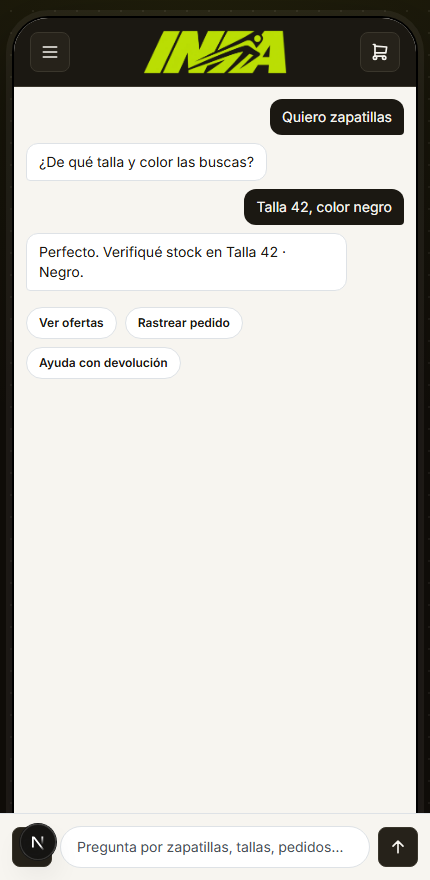
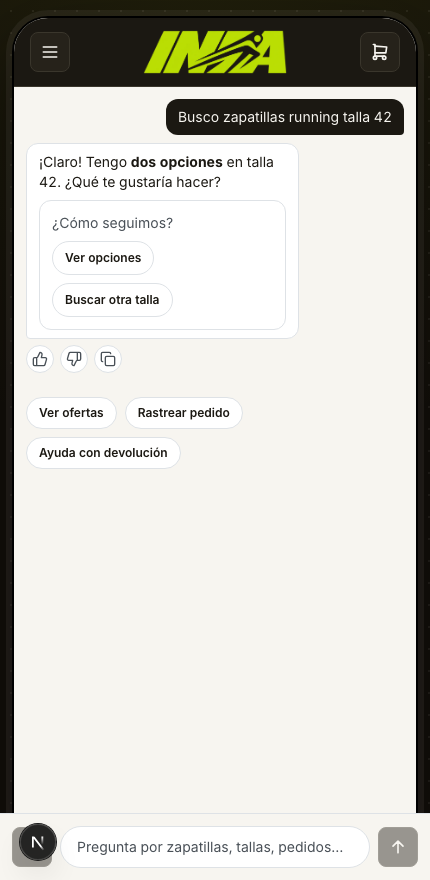
feat(h3-10): disable mock chat shortcuts and drop mensajePendiente

diff --git a/src/adapters/inbound/pages/OrderHistoryPage.tsx b/src/adapters/inbound/pages/OrderHistoryPage.tsx
@@ -8,7 +8,6 @@ import { ListaPedidos } from "../components/blocks/ListaPedidos";
 import { EstadoPedido } from "../components/blocks/EstadoPedido";
 import { ListaReclamos } from "../components/blocks/ListaReclamos";
 import { ListaDevoluciones } from "../components/blocks/ListaDevoluciones";
-import { useChatStore } from "@/application/state/chatStore";
 
 type Tab = "proceso" | "entregados" | "reembolso" | "reclamos";
 
@@ -16,13 +15,6 @@ type Tab = "proceso" | "entregados" | "reembolso" | "reclamos";
 export function OrderHistoryPage({ initialTab = "proceso" }: { initialTab?: Tab }) {
   const [tab, setTab] = useState<Tab>(initialTab);
   const router = useRouter();
-  const setMensajePendiente = useChatStore((s) => s.setMensajePendiente);
-
-  function preguntar(user: string, bot: string) {
-    setMensajePendiente({ user, bot });
-    router.push("/chat/consulta");
-  }
-
   return (
     <div className="p-4 flex flex-col gap-3">
       <div className="grid grid-cols-4 gap-1 bg-white border border-border-default rounded-md p-1">
@@ -49,9 +41,8 @@ export function OrderHistoryPage({ initialTab = "proceso" }: { initialTab?: Tab 
           <div className="grid grid-cols-2 gap-2 mt-2">
             <button onClick={() => router.push("/seguimiento")}
               className="wf-btn py-2.5 text-[11px] font-bold bg-action-primary text-surface-ink inline-flex items-center justify-center gap-1"><TruckIcon size={16} />VER SEGUIMIENTO</button>
-            <button
-              onClick={() => preguntar("Tengo una consulta sobre mi pedido #A-1042", "¡Claro! Tu pedido #A-1042 está EN CAMINO y llega el 18 sep a Av. Siempre Viva 742, Lima. ¿Quieres el detalle del seguimiento o ayuda con algo más?")}
-              className="wf-btn py-2.5 text-[11px] font-bold bg-white border border-border-default text-text-primary">PREGUNTAR EN EL CHAT</button>
+            <button disabled title="Próximamente" aria-label="Preguntar en el chat (próximamente)"
+              className="wf-btn py-2.5 text-[11px] font-bold bg-white border border-border-default text-text-primary disabled:opacity-45 disabled:cursor-not-allowed">PREGUNTAR EN EL CHAT</button>
           </div>
         </div>
       )}
@@ -67,9 +58,8 @@ export function OrderHistoryPage({ initialTab = "proceso" }: { initialTab?: Tab 
             <button onClick={() => router.push("/reclamo")} className="wf-btn py-2.5 text-[11px] font-bold bg-white border border-border-default inline-flex items-center justify-center gap-1"><FileAlertIcon size={16} />RECLAMAR</button>
             <button onClick={() => router.push("/devolucion")} className="wf-btn py-2.5 text-[11px] font-bold bg-white border border-border-default inline-flex items-center justify-center gap-1"><RefreshIcon size={16} />DEVOLVER</button>
           </div>
-          <button
-            onClick={() => preguntar("Tengo una consulta sobre mi pedido entregado #A-0987", "Tu pedido #A-0987 fue ENTREGADO el 2 sep en Calle Los Olivos 120, Lima. ¿Necesitas reportar un problema o solicitar un cambio?")}
-            className="wf-btn py-2.5 text-[11px] font-bold mt-2 w-full bg-surface-ink text-text-inverse">PREGUNTAR EN EL CHAT</button>
+          <button disabled title="Próximamente" aria-label="Preguntar en el chat (próximamente)"
+              className="wf-btn py-2.5 text-[11px] font-bold mt-2 w-full bg-surface-ink text-text-inverse disabled:opacity-45 disabled:cursor-not-allowed">PREGUNTAR EN EL CHAT</button>
         </div>
       )}
 
@@ -79,9 +69,8 @@ export function OrderHistoryPage({ initialTab = "proceso" }: { initialTab?: Tab 
             { codigo: "#R-0312", estado: "EN REVISIÓN", motivo: "Talla incorrecta", fecha: "10 sep 2026" },
             { codigo: "DEV-2026-00045", estado: "APROBADO", motivo: "Cambio 41 → 42", fecha: "8 sep 2026" },
           ]} />
-          <button
-            onClick={() => preguntar("Tengo una consulta sobre mi solicitud DEV-2026-0042", "Tu solicitud DEV-2026-0042 por talla incorrecta está En revisión. Te avisaremos por correo al aprobarse. ¿Te ayudo en algo más?")}
-            className="wf-btn py-2.5 text-[11px] font-bold w-full bg-surface-ink text-text-inverse">PREGUNTAR EN EL CHAT</button>
+          <button disabled title="Próximamente" aria-label="Preguntar en el chat (próximamente)"
+              className="wf-btn py-2.5 text-[11px] font-bold w-full bg-surface-ink text-text-inverse disabled:opacity-45 disabled:cursor-not-allowed">PREGUNTAR EN EL CHAT</button>
         </div>
       )}
 
@@ -90,9 +79,8 @@ export function OrderHistoryPage({ initialTab = "proceso" }: { initialTab?: Tab 
           <ListaReclamos items={[
             { codigo: "REC-2026-0118", estado: "EN PROCESO", motivo: "Producto defectuoso", plazo: "15 días hábiles" },
           ]} />
-          <button
-            onClick={() => preguntar("Tengo una consulta sobre mi reclamo REC-2026-0118", "Tu reclamo REC-2026-0118 sigue En revisión y el plazo es de 15 días hábiles. ¿Quieres agregar más información?")}
-            className="wf-btn py-2.5 text-[11px] font-bold w-full bg-surface-ink text-text-inverse">PREGUNTAR EN EL CHAT</button>
+          <button disabled title="Próximamente" aria-label="Preguntar en el chat (próximamente)"
+              className="wf-btn py-2.5 text-[11px] font-bold w-full bg-surface-ink text-text-inverse disabled:opacity-45 disabled:cursor-not-allowed">PREGUNTAR EN EL CHAT</button>
         </div>
       )}
     </div>

diff --git a/src/application/state/chatStore.ts b/src/application/state/chatStore.ts
@@ -13,8 +13,6 @@ type ChatState = {
   accionPendiente: string | null;
   /** Abre el modal de login/registro global (AppShell). */
   authOpen: boolean;
-  /** Par user/bot que otra página deja sembrado para el chat (confirm al agregar, preguntar en el chat). */
-  mensajePendiente: { user?: string; bot: string } | null;
   /** Resumen del último pedido confirmado (pantalla /exito). */
   ultimoPedido: UltimoPedido;
   /**
@@ -27,7 +25,6 @@ type ChatState = {
   setCarrito: (c: CarritoUI) => void;
   setAccionPendiente: (a: string | null) => void;
   setAuthOpen: (v: boolean) => void;
-  setMensajePendiente: (m: { user?: string; bot: string } | null) => void;
   setUltimoPedido: (p: UltimoPedido) => void;
   setPrimerMensaje: (m: string | null) => void;
   logout: () => void;
@@ -54,7 +51,6 @@ export const useChatStore = create<ChatState>()(
       carrito: carritoVacio,
       accionPendiente: null,
       authOpen: false,
-      mensajePendiente: null,
       ultimoPedido: null,
       primerMensaje: null,
       setToken: (accessToken) => set({ accessToken }),
@@ -62,7 +58,6 @@ export const useChatStore = create<ChatState>()(
       setCarrito: (carrito) => set({ carrito }),
       setAccionPendiente: (accionPendiente) => set({ accionPendiente }),
       setAuthOpen: (authOpen) => set({ authOpen }),
-      setMensajePendiente: (mensajePendiente) => set({ mensajePendiente }),
       setUltimoPedido: (ultimoPedido) => set({ ultimoPedido }),
       setPrimerMensaje: (primerMensaje) => set({ primerMensaje }),
       logout: () =>
@@ -71,17 +66,17 @@ export const useChatStore = create<ChatState>()(
           cliente: null,
           carrito: carritoVacio,
           accionPendiente: null,
-          mensajePendiente: null,
         }),
     }),
     {
       name: "g3-chat-storage", // LocalStorage, token 15 min (refresh en cookie httpOnly backend)
-      version: 1,
+      version: 2,
       // Los mensajes del chat viven en el backend (historial) y en el estado local del turno.
       migrate: (persistido) => {
         const resto = { ...(persistido as Record<string, unknown>) };
         delete resto.mensajes;
         delete resto.escribiendo;
+        delete resto.mensajePendiente;
         return resto as unknown as ChatState;
       },
       partialize: (s) => ({
@@ -91,7 +86,6 @@ export const useChatStore = create<ChatState>()(
         carrito: s.carrito,
         accionPendiente: s.accionPendiente,
         authOpen: s.authOpen,
-        mensajePendiente: s.mensajePendiente,
         ultimoPedido: s.ultimoPedido,
       }),
     }

diff --git a/tests/e2e/visual.spec.ts b/tests/e2e/visual.spec.ts
@@ -3,7 +3,6 @@ import { test } from "@playwright/test";
 // Visual-check hexagonal: home, chat, carrito, checkout, pedidos
 const rutas = [
   ["/", "visual-home.png"],
-  ["/chat/talla-42", "visual-chat.png"],
   ["/carrito", "visual-carrito.png"],
   ["/checkout", "visual-checkout.png"],
   ["/pedidos", "visual-pedidos.png"],
@@ -17,3 +16,50 @@ for (const [ruta, archivo] of rutas) {
     await page.screenshot({ path: `docs/${archivo}` });
   });
 }
+
+const CONVERSACION_ID = "3f2b8c1e-6a4d-4e0b-9c57-1d8a2f4b7e90";
+
+// Historial fijo con la forma exacta de GET /chat/conversaciones/{id}/mensajes.
+const historial = [
+  {
+    id: "a1b2c3d4-0001-4000-8000-000000000001",
+    conversacionId: CONVERSACION_ID,
+    rol: "user",
+    texto: "Busco zapatillas running talla 42",
+    bloques: null,
+    creadoEn: "2026-09-10T10:00:00Z",
+  },
+  {
+    id: "a1b2c3d4-0002-4000-8000-000000000002",
+    conversacionId: CONVERSACION_ID,
+    rol: "bot",
+    texto: "¡Claro! Tengo **dos opciones** en talla 42. ¿Qué te gustaría hacer?",
+    bloques: {
+      blocks: [
+        {
+          id: "b1",
+          tipo: "ACCIONES_RAPIDAS",
+          pregunta: "¿Cómo seguimos?",
+          acciones: [
+            { id: "ver", etiqueta: "Ver opciones" },
+            { id: "otra", etiqueta: "Buscar otra talla" },
+          ],
+        },
+      ],
+    },
+    creadoEn: "2026-09-10T10:00:02Z",
+  },
+];
+
+test("visual chat con historial simulado", async ({ page }) => {
+  await page.route(`**/api/v1/chat/conversaciones/${CONVERSACION_ID}/mensajes`, (route) =>
+    route.fulfill({ status: 200, contentType: "application/json", body: JSON.stringify(historial) })
+  );
+  await page.setViewportSize({ width: 430, height: 880 });
+  await page.goto(`/chat/${CONVERSACION_ID}`);
+  await page.getByText("Busco zapatillas running talla 42").waitFor();
+  await page.getByText("dos opciones").waitFor();
+  await page.getByText("Ver opciones").waitFor();
+  // Las burbujas entran con una animación de opacidad: se completa antes de capturar.
+  await page.screenshot({ path: "docs/visual-chat.png", animations: "disabled" });
+});

diff --git a/src/adapters/inbound/pages/SeguimientoPage.tsx b/src/adapters/inbound/pages/SeguimientoPage.tsx
@@ -2,7 +2,6 @@
 
 import { useRouter } from "next/navigation";
 import { TruckIcon } from "../components/icons";
-import { useChatStore } from "@/application/state/chatStore";
 import { EstadoPedido } from "../components/blocks/EstadoPedido";
 
 /**
@@ -11,16 +10,6 @@ import { EstadoPedido } from "../components/blocks/EstadoPedido";
  */
 export function SeguimientoPage() {
   const router = useRouter();
-  const setMensajePendiente = useChatStore((s) => s.setMensajePendiente);
-
-  function preguntar() {
-    setMensajePendiente({
-      user: "Tengo una consulta sobre el seguimiento de mi pedido #A-1042",
-      bot: "¡Claro! Tu pedido #A-1042 está EN CAMINO y llega el 18 sep. ¿Te ayudo con algo más del seguimiento?",
-    });
-    router.push("/chat/consulta");
-  }
-
   return (
     <div className="p-4 flex flex-col gap-3">
       <div className="rounded-md bg-surface-ink text-text-inverse p-3 flex items-center gap-3">
@@ -36,7 +25,7 @@ export function SeguimientoPage() {
         { titulo: "En centro de despacho", fecha: "12 sep · 14:00", done: true },
         { titulo: "En camino", fecha: "18 sep · estimado", done: false },
       ]} />
-      <button onClick={preguntar} className="wf-btn py-3 text-[12px] font-bold tracking-wide bg-action-primary text-surface-ink hover:bg-action-primary-hover">
+      <button disabled title="Próximamente" aria-label="Preguntar en el chat (próximamente)" className="wf-btn py-3 text-[12px] font-bold tracking-wide bg-action-primary text-surface-ink hover:bg-action-primary-hover disabled:opacity-45 disabled:cursor-not-allowed">
         PREGUNTAR EN EL CHAT
       </button>
       <button onClick={() => router.push("/pedidos")} className="text-[14px] font-semibold underline text-text-secondary">Volver al historial</button>

diff --git a/src/adapters/inbound/pages/DevolucionPage.tsx b/src/adapters/inbound/pages/DevolucionPage.tsx
@@ -21,7 +21,7 @@ export function DevolucionPage() {
         <p className="text-[14px] text-text-secondary">Código {codigo} · La evidencia quedó adjunta.</p>
         <div className="rounded-md bg-white border border-border-default w-full p-3 text-[12px] text-text-secondary">Puedes hacerle seguimiento por el chat o en Historial de pedidos → Reembolso/Cambio.</div>
         <button onClick={() => router.push("/pedidos/reembolso")} className="wf-btn w-full py-3 text-[12px] font-bold tracking-wide bg-action-primary text-surface-ink hover:bg-action-primary-hover">VER EN HISTORIAL</button>
-        <button onClick={() => router.push("/chat/devolucion-compra")} className="wf-btn w-full py-3 text-[12px] font-bold tracking-wide bg-surface-ink text-text-inverse">SEGUIR POR EL CHAT</button>
+        <button disabled title="Próximamente" aria-label="Seguir por el chat (próximamente)" className="wf-btn w-full py-3 text-[12px] font-bold tracking-wide bg-surface-ink text-text-inverse disabled:opacity-45 disabled:cursor-not-allowed">SEGUIR POR EL CHAT</button>
       </div>
     );
   }

diff --git a/src/adapters/inbound/pages/ReclamoPage.tsx b/src/adapters/inbound/pages/ReclamoPage.tsx
@@ -21,7 +21,7 @@ export function ReclamoPage() {
         <p className="text-[14px] text-text-secondary">Código #{codigo} · Plazo de respuesta: 15 días hábiles.</p>
         <div className="rounded-md bg-white border border-border-default w-full p-3 text-[12px] text-text-secondary">Puedes hacerle seguimiento por el chat o en Historial de pedidos → Reclamos.</div>
         <button onClick={() => router.push("/pedidos/reclamos")} className="wf-btn w-full py-3 text-[12px] font-bold tracking-wide bg-action-primary text-surface-ink hover:bg-action-primary-hover">VER EN HISTORIAL</button>
-        <button onClick={() => router.push("/chat/reclamo-defecto")} className="wf-btn w-full py-3 text-[12px] font-bold tracking-wide bg-surface-ink text-text-inverse">SEGUIR POR EL CHAT</button>
+        <button disabled title="Próximamente" aria-label="Seguir por el chat (próximamente)" className="wf-btn w-full py-3 text-[12px] font-bold tracking-wide bg-surface-ink text-text-inverse disabled:opacity-45 disabled:cursor-not-allowed">SEGUIR POR EL CHAT</button>
       </div>
     );
   }
